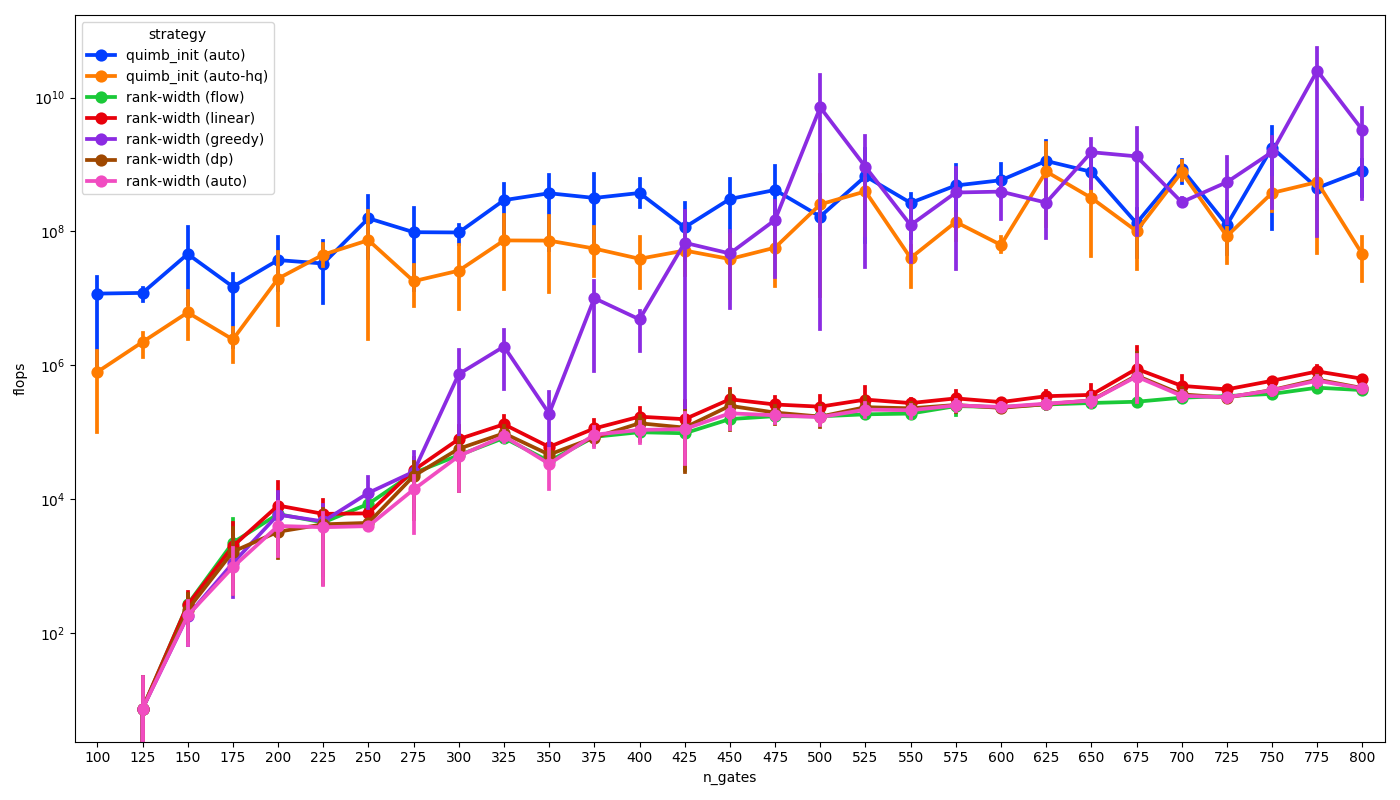
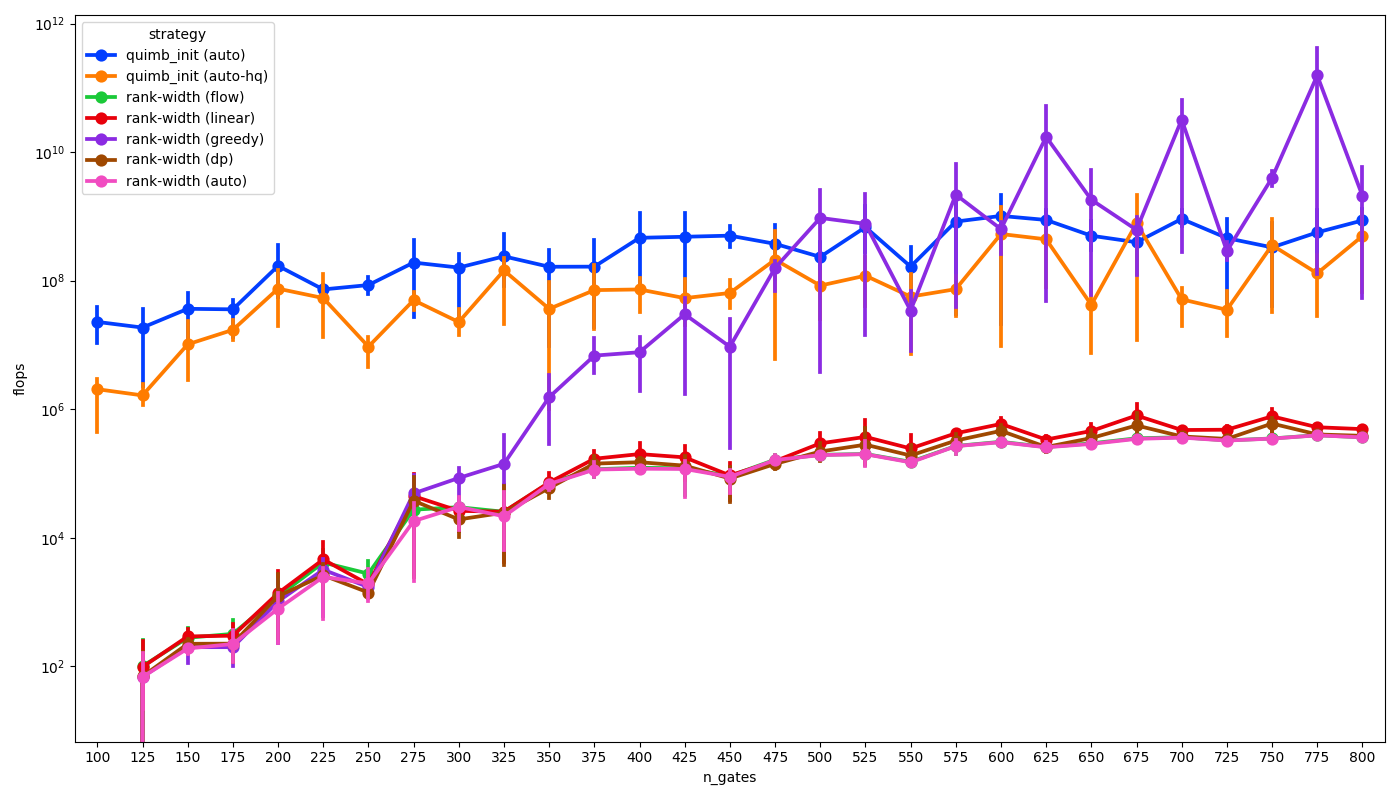
Replaced initial order in auto

diff --git a/decomp_heuristics.py b/decomp_heuristics.py
@@ -41,50 +41,42 @@ def causal_flow(g: zx.graph.base.BaseGraph):
         k += 1
 
 
-def flow_decomposition(g: zx.graph.base.BaseGraph, verbose=False):
+def flow_order(g: zx.graph.base.BaseGraph, flatten=False):
     zx.to_graph_like(g)
     zx.id_simp(g)
     zx.spider_simp(g)
-    if verbose:
-        print(f'Initial graph-like diagram has {g.num_vertices()} vertices and {g.num_edges()} edges')
     layers, _ = causal_flow(g)
-    order = sorted(list(layers.keys()), key=lambda v: layers[v], reverse=True)
-
+    init_order = sorted(list(layers.keys()), key=lambda v: layers[v], reverse=True)
     g.apply_state('0' * g.num_inputs())
     g.apply_effect('0' * g.num_outputs())
-    g2 = g.copy(backend="quizx-vec")
-    order_dict = {v: i for i, v in enumerate(sorted(order))}
-    pivots = simplify_get_pivots(g2)
-
-    if verbose:
-        print(f'Final graph-like diagram has {g2.num_vertices()} vertices and {g2.num_edges()} edges')
-
-    if g2.num_vertices() == 0:
-        return g2, None
-
-    new_order = [order_dict[v] for v in order if order_dict[v] in g2.vertices()]
-    gadgets_g2 = phase_gadgets(g2)
-    for u, v in pivots + gadgets_g2:
-        if u not in new_order or v not in new_order:
+    g = g.copy(backend="quizx-vec")
+    init_order_dict = {v: i for i, v in enumerate(sorted(init_order))}
+    pivots = simplify_get_pivots(g)
+    order = [init_order_dict[v] for v in init_order if init_order_dict[v] in g.vertices()]
+    gadgets = phase_gadgets(g)
+    for u, v in pivots + gadgets:
+        if u not in order or v not in order:
             continue
-        new_order.pop(new_order.index(v))
-        new_order.insert(new_order.index(u) + 1, v)
-    for u, v in gadgets_g2:
-        pos = new_order.index(u)
-        if new_order[pos:pos + 2] != [u, v]:
-            continue
-        new_order[pos:pos + 2] = [[u, v]]
-    decomp = build_linear(new_order)
-    return g2, decomp
+        order.pop(order.index(v))
+        order.insert(order.index(u) + 1, v)
+    if not flatten:
+        for u, v in gadgets:
+            pos = order.index(u)
+            if order[pos:pos + 2] != [u, v]:
+                continue
+            order[pos:pos + 2] = [[u, v]]
+    return g, order
 
 
 def linear_order(g: zx.graph.base.BaseGraph):
     n = g.num_vertices()
+    if n == 0:
+        return []
     vert = list(g.vertices())
     mat = adjacency_matrix(g, vert, vert)
     ref = REF(mat)
     ref.take(0)
-    order = [0]
+    order = [vert[0]]
     for i in range(1, n):
         min_r, min_u = n, -1
         for u in ref.pivot_cols:
@@ -94,25 +86,12 @@ def linear_order(g: zx.graph.base.BaseGraph):
             if r < min_r:
                 min_r = r
                 min_u = u
-        order.append(min_u)
+        order.append(vert[min_u])
         ref.take(min_u)
     return order
 
 
-def linear_decomposition(g: zx.graph.base.BaseGraph, verbose=False):
-    if g.num_vertices() == 0:
-        return None
-    vert = list(g.vertices())
-    order = linear_order(g)
-    decomp = build_linear([vert[v] for v in order])
-    if verbose:
-        width = rank_width(decomp, g)
-        score = rank_score_flops(decomp, g)
-        print(f'Linear rank-decomposition has width {width} and score {score:.3f}')
-    return decomp
-
-
-def greedy_decomposition(g: zx.graph.base.BaseGraph, verbose=False):
+def greedy_decomposition(g: zx.graph.base.BaseGraph):
     n = g.num_vertices()
     if n == 0:
         return None
@@ -168,22 +147,16 @@ def greedy_decomposition(g: zx.graph.base.BaseGraph, verbose=False):
                 refs_next[(i1, i2)] = refs_next[(i2, i1)] = ref
                 edges[i1].add(i2)
                 edges[i2].add(i1)
-    decomp = decomps[i]
-    if verbose:
-        width = rank_width(decomp, g)
-        score = rank_score_flops(decomp, g)
-        print(f'Greedy rank-decomposition has width {width} and score {score:.3f}')
-    return decomp
+    return decomps[i]
 
 
-def dp_decomposition(g: zx.graph.base.BaseGraph, verbose=False):
+def dp_decomposition(g: zx.graph.base.BaseGraph, order):
     n = g.num_vertices()
     if n == 0:
         return None
     vert = list(g.vertices())
+    order = [vert.index(v) for v in order]
     mat = adjacency_matrix(g, vert, vert)
-    order = linear_order(g)
-
     rank_seg = [[-1] * n for _ in range(n)]
     for i in range(n):
         ref = REF(mat)
@@ -210,21 +183,14 @@ def dp_decomposition(g: zx.graph.base.BaseGraph, verbose=False):
         k = ans[i][j]
         return [restore_decomp(i, k), restore_decomp(k + 1, j)]
 
-    decomp = restore_decomp(0, n - 1)
-    if verbose:
-        width = rank_width(decomp, g)
-        score = rank_score_flops(decomp, g)
-        print(f'DP rank-decomposition has width {width} and score {score:.3f}')
-    return decomp
+    return restore_decomp(0, n - 1)
 
 
-def auto_decomposition(g: zx.graph.base.BaseGraph, verbose=False):
+def auto_decomposition(g: zx.graph.base.BaseGraph, order):
     n = g.num_vertices()
-    if n == 0:
-        return None
     vert = list(g.vertices())
+    order = [vert.index(v) for v in order]
     mat = adjacency_matrix(g, vert, vert)
-    order = linear_order(g)
     refs = []
     cut_refs = []
     cut_ref = REF(mat)
@@ -254,8 +220,7 @@ def auto_decomposition(g: zx.graph.base.BaseGraph, verbose=False):
     best_decomp = build_linear(decomps)
     best_score = rank_score_flops(best_decomp, g)
     while refs_next:
-        min_rank, _, i, j = min((ref.rank(), abs(loc[j] - loc[i]), i, j)
-                                for (i, j), ref in refs_next.items())
+        min_rank, i, j = min((ref.rank(), i, j) for (i, j), ref in refs_next.items())
         if i > j:
             i, j = j, i
 
@@ -315,10 +280,6 @@ def auto_decomposition(g: zx.graph.base.BaseGraph, verbose=False):
                 edges[i1].add(i2)
                 edges[i2].add(i1)
 
-    if verbose:
-        width = rank_width(best_decomp, g)
-        score = rank_score_flops(best_decomp, g)
-        print(f'Auto rank-decomposition has width {width} and score {score:.3f}')
     return best_decomp
 
 
@@ -341,20 +302,31 @@ def anneal_decomposition(g: zx.graph.base.BaseGraph, decomp, verbose=False, **an
 
 def compute_decomposition(g: zx.graph.base.BaseGraph, opt='auto', verbose=False):
     if opt == 'flow':
-        return flow_decomposition(g, verbose=verbose)
-    g.apply_state('0' * g.num_inputs())
-    g.apply_effect('0' * g.num_outputs())
-    zx.full_reduce(g)
-    if verbose:
-        print(f'Final ZX diagram has {g.num_vertices()} vertices and {g.num_edges()} edges')
-    if g.num_vertices() == 0:
-        return g, None
-    if opt == 'greedy':
-        return g, greedy_decomposition(g, verbose=verbose)
+        g, order = flow_order(g)
+        decomp = build_linear(order)
+    elif opt == 'greedy':
+        g.apply_state('0' * g.num_inputs())
+        g.apply_effect('0' * g.num_outputs())
+        zx.full_reduce(g)
+        decomp = greedy_decomposition(g)
     elif opt == 'linear':
-        return g, linear_decomposition(g, verbose=verbose)
+        g.apply_state('0' * g.num_inputs())
+        g.apply_effect('0' * g.num_outputs())
+        zx.full_reduce(g)
+        order = linear_order(g)
+        decomp = build_linear(order)
     elif opt == 'dp':
-        return g, dp_decomposition(g, verbose=verbose)
+        g.apply_state('0' * g.num_inputs())
+        g.apply_effect('0' * g.num_outputs())
+        zx.full_reduce(g)
+        order = linear_order(g)
+        decomp = dp_decomposition(g, order)
     elif opt == 'auto':
-        return g, auto_decomposition(g, verbose=verbose)
-    raise ValueError('Unknown decomposition strategy')
+        g, order = flow_order(g, flatten=True)
+        decomp = auto_decomposition(g, order)
+    else:
+        raise ValueError('Unknown optimiser')
+    if verbose:
+        width, score = rank_width(decomp, g), rank_score_flops(decomp, g)
+        print(f'Rank-decomposition ({opt}) has width {width} and score {score:.3f}')
+    return g, decomp

diff --git a/bench_special_flops.py b/bench_special_flops.py
@@ -27,7 +27,7 @@ def per_circuit_barplot(data, **kwargs):
 
 
 if __name__ == '__main__':
-    circuit_dir = 'circuits/quick'
+    circuit_dir = 'circuits/small'
     batch = sorted(os.listdir(circuit_dir))
     data = {
         'circuit': [],
@@ -50,15 +50,15 @@ if __name__ == '__main__':
         data['flops'].append(flops_quimb_init_auto_hq)
         data['strategy'].append('quimb_init (auto-hq)')
 
-        flops_quimb_auto = quimb_flops(circ, state, effect, optimize='auto', initial=False)
-        data['circuit'].append(circ_name)
-        data['flops'].append(flops_quimb_auto)
-        data['strategy'].append('quimb (auto)')
-
-        flops_quimb_auto_hq = quimb_flops(circ, state, effect, optimize='auto-hq', initial=False)
-        data['circuit'].append(circ_name)
-        data['flops'].append(flops_quimb_auto_hq)
-        data['strategy'].append('quimb (auto-hq)')
+        # flops_quimb_auto = quimb_flops(circ, state, effect, optimize='auto', initial=False)
+        # data['circuit'].append(circ_name)
+        # data['flops'].append(flops_quimb_auto)
+        # data['strategy'].append('quimb (auto)')
+        #
+        # flops_quimb_auto_hq = quimb_flops(circ, state, effect, optimize='auto-hq', initial=False)
+        # data['circuit'].append(circ_name)
+        # data['flops'].append(flops_quimb_auto_hq)
+        # data['strategy'].append('quimb (auto-hq)')
 
         flops_rw_flow = rw_simulate_flops(circ, state, effect, opt='flow')
         data['circuit'].append(circ_name)
@@ -96,4 +96,4 @@ if __name__ == '__main__':
     g.figure.legend(handles=handles, ncol=3)
 
     plt.tight_layout()
-    plt.savefig('results/bench-special/quick_flops_full.png')
+    plt.savefig('results/bench-special/small_flops_full.png')

diff --git a/test_rw.py b/test_rw.py
@@ -6,7 +6,7 @@ from fractions import Fraction
 
 from gf2 import rank_factorize, generalized_inverse
 from graph import rank_width
-from decomp_heuristics import flow_decomposition
+from decomp_heuristics import compute_decomposition
 from rw_simulate import simulate_graph, simulate_circuit, conv_uv, conv_uw, conv_vw, conv_naive
 
 
@@ -66,7 +66,7 @@ def test_flow_decomposition():
     for it in range(5):
         circ = zx.generate.CNOT_HAD_PHASE_circuit(qubits=n_qubits, depth=n_gates)
         g = circ.to_graph()
-        g, decomp = flow_decomposition(g)
+        g, decomp = compute_decomposition(g, opt='flow')
         if g.num_vertices() > 0:
             assert rank_width(decomp, g) <= n_qubits
 

diff --git a/demo.py b/demo.py
@@ -5,9 +5,9 @@ from flops import rw_simulate_flops, quimb_flops
 from graph import rank_width, rank_score_flops
 from zx_helpers import circuit2graph
 
-circ = zx.Circuit.load('circuits/small/ham15-low.qasm')
+circ = zx.Circuit.load('circuits/small/gf2^4_mult.qasm')
 # circ = zx.generate.CNOT_HAD_PHASE_circuit(10, 1000)
-state, effect = 'T' * circ.qubits, 'T' * circ.qubits
+state, effect = '0' * circ.qubits, '0' * circ.qubits
 print(f'Our flops (flow): {rw_simulate_flops(circ, state, effect, opt="flow")}')
 print(f'Our flops (linear): {rw_simulate_flops(circ, state, effect, opt="linear")}')
 print(f'Our flops (greedy): {rw_simulate_flops(circ, state, effect, opt="greedy")}')
